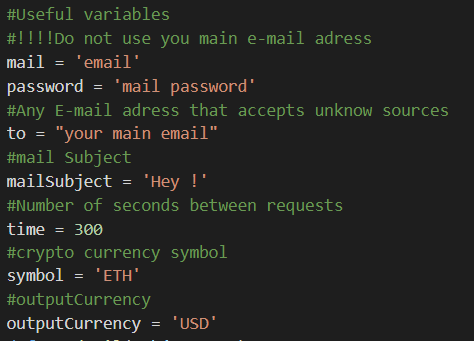
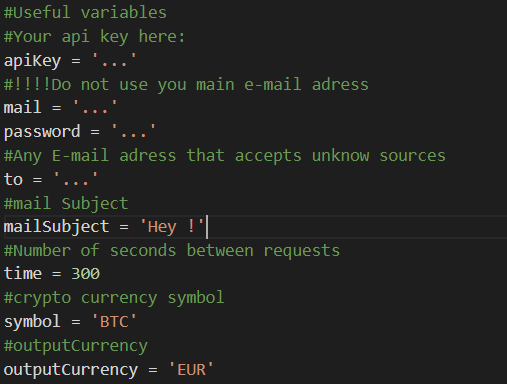
V1

diff --git a/main.py b/main.py
@@ -5,19 +5,21 @@ from threading import Timer
 from request import getEthPrice
 
 #Useful variables
+#Your api key here:
+apiKey = '...'
 #!!!!Do not use you main e-mail adress
-mail = 'email'
-password = 'mail password'
+mail ='...'
+password = '...'
 #Any E-mail adress that accepts unknow sources
-to = "your main email"
+to = '...'
 #mail Subject
 mailSubject = 'Hey !'
 #Number of seconds between requests 
 time = 300
 #crypto currency symbol
-symbol = 'ETH'
+symbol = 'BTC'
 #outputCurrency
-outputCurrency = 'USD'
+outputCurrency = 'EUR'
 def sendMail(subject,msg):
     try:
         #try to send mail
@@ -38,10 +40,10 @@ def sendMail(subject,msg):
         print('an error occured')
 #Execution of both functions
 def exe():
-    price = getEthPrice(symbol,outputCurrency)
+    price = getEthPrice(symbol,outputCurrency,apiKey)
     ################ ADD your conditions IN HERE ################## 
-    #if .... execute the two lines below 
-    message= f"Eth price is : {price} $USD"
-    sendMail(mailSubject,message)
+    if price < 37000:
+        message= f"{symbol} price is : {price} {outputCurrency}"
+        sendMail(mailSubject,message)
     Timer(time,exe).start()
 exe()

diff --git a/request.py b/request.py
@@ -2,7 +2,7 @@ from requests import Request, Session
 from requests.exceptions import ConnectionError, Timeout, TooManyRedirects
 import json
 
-def getEthPrice(symbol,outputCurrency):
+def getEthPrice(symbol,outputCurrency,apiKey):
     url = 'https://pro-api.coinmarketcap.com/v1/cryptocurrency/quotes/latest'
     parameters = {
     'symbol':symbol,
@@ -10,7 +10,7 @@ def getEthPrice(symbol,outputCurrency):
     }
     headers = {
     'Accepts': 'application/json',
-    'X-CMC_PRO_API_KEY': '04279dfc-5eda-4e6d-8426-0eaabf51ce0d',
+    'X-CMC_PRO_API_KEY': apiKey,
     }
     session = Session()
     session.headers.update(headers)
@@ -18,7 +18,7 @@ def getEthPrice(symbol,outputCurrency):
     try:
         response = session.get(url, params=parameters)
         data = json.loads(response.text)
-        return data['data']['ETH']['quote']['USD']['price']
+        return data['data'][symbol]['quote'][outputCurrency]['price']
     except (ConnectionError, Timeout, TooManyRedirects) as e:
         print(e)
         return False

diff --git a/README.md b/README.md
@@ -15,15 +15,25 @@ Secondely, go to https://coinmarketcap.com/api/ . And create an Account. After y
 
 Now you are almost ready to get up  and running, the basic file will only fetch the price of a currency after a certain time and send an email, but if you want to add conditions such as thresholds you can !
 
-Let me guide you through this:
+Let me guide you through this (we will change variables in the beginning of the file):
 1. Open main.py
-2. Add the email adress that you created + its password
-3. Change the "to" variable to your main email adress (where you will receive alerts)
-4. Set a subject for the E-mails and set time to the time between the requests (in seconds) !!! 333 Calls per day MAX!
-5. Finally set the symbol of the currency you want to follow in the symbol variable (example: BTC,ETH,XRP,LTC,DOGE etc)
+2. Set the Api key that we got previously in its allocated variable
+3. Add the email adress that you created + its password
+4. Change the "to" variable to your main email adress (where you will receive alerts)
+5. Set a subject for the E-mails and set time to the time between the requests (in seconds) !!! 333 Calls per day MAX!
+6. Finally set the symbol of the currency you want to follow in the symbol variable (example: BTC,ETH,XRP,LTC,DOGE etc), At the same time you set the output currency (example: USD,EUR,CAD)
 
 ![Image of the variables to change](https://github.com/saadze/Crypto-Alert/blob/main/images/variables.PNG)
 
-Now your code is fully working (you can execute main.py) and will send automatic e-mails
+Now your code is fully working (you can execute main.py) it will send automatic e-mails :) But if you want specific conditions, you're not done yet:
+* Go to the line 42, here you can add conditions
 
 ![Possibility to add conditions](https://github.com/saadze/Crypto-Alert/blob/main/images/conditions.PNG)
+
+When even the condition is true, you should execute line 44 and 45
+
+Here is an example:
+![Possibility to add conditions](https://github.com/saadze/Crypto-Alert/blob/main/images/conditionsGood.PNG)
+
+
+
